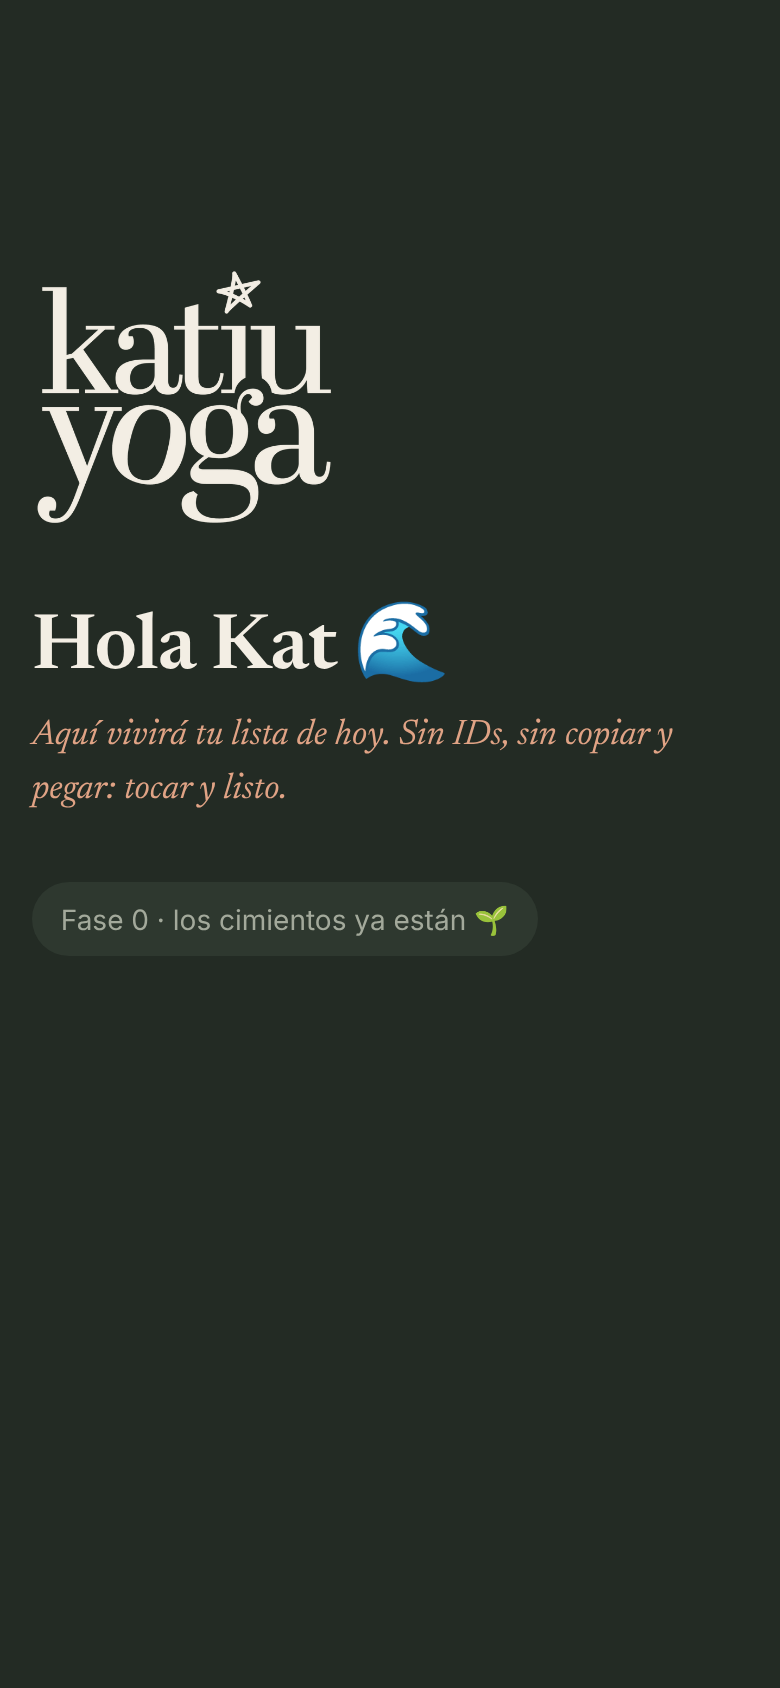
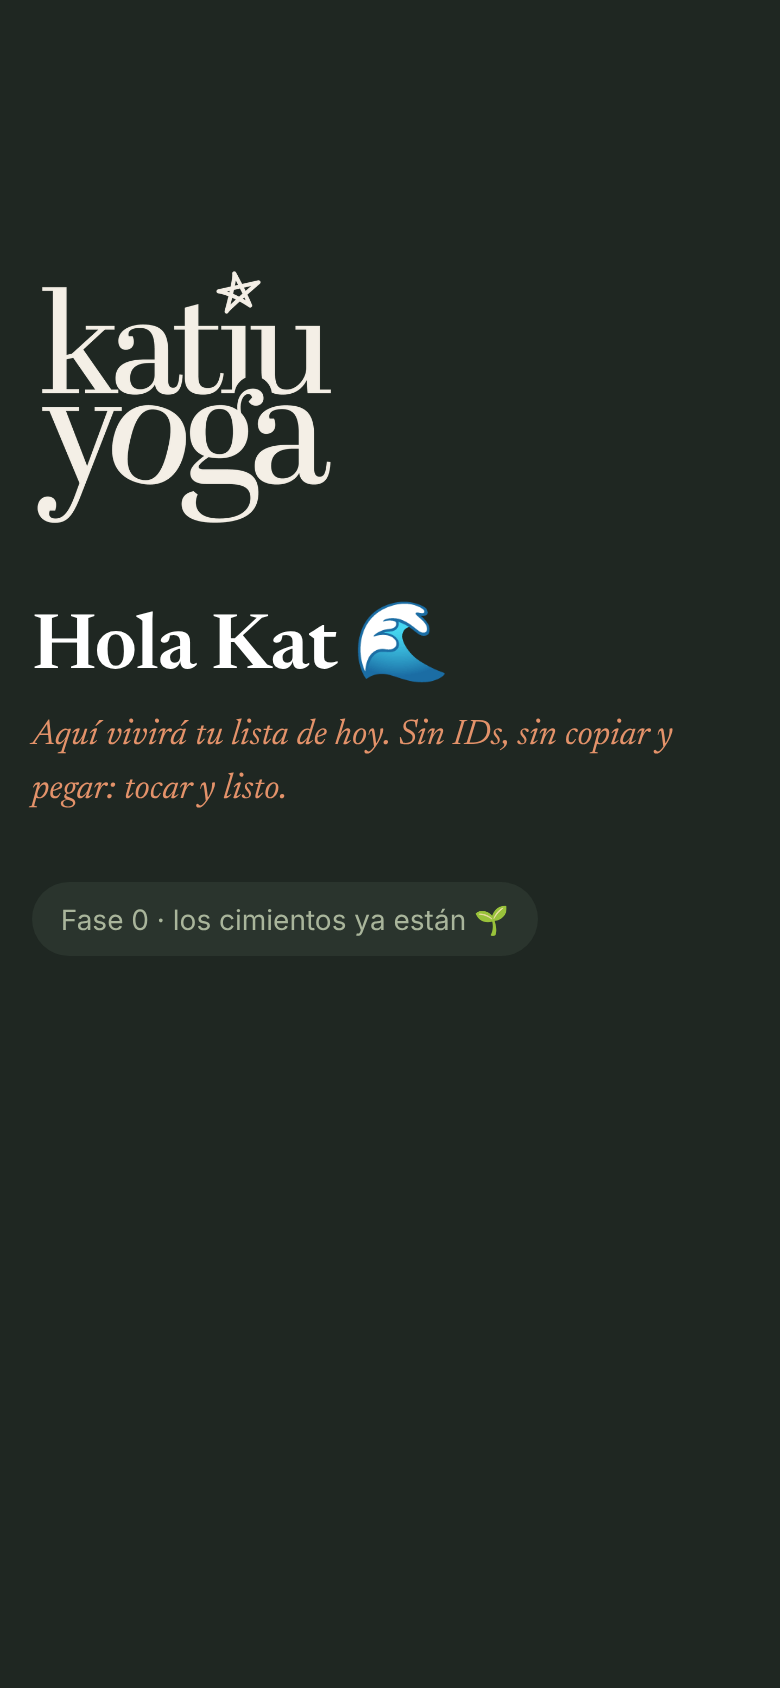
feat(diseño): refresh de paleta "Bosque & Lino" con colores de estado y contraste AA
Claude-Session: https://claude.ai/code/session_01JJWnREDnQrXapA92JvzeH6

Changed region(s): [[0.0308, 0.3697, 0.2462, 0.4005], [0.2769, 0.3697, 0.4308, 0.4005]]

diff --git a/src/katiu/static/css/tokens.css b/src/katiu/static/css/tokens.css
@@ -1,29 +1,47 @@
-/* Tokens de marca Katiu Yoga (Pautas de diseño 2026).
-   Única fuente de color, tipografía y forma: los componentes usan var(--token), nunca un hex suelto.
-   Los hex se han muestreado del manual de marca (sus códigos impresos no coinciden con los
-   colores reales; ver docs/adr/0002-identidad-de-marca.md). */
+/* Tokens de marca Katiu Yoga: paleta "Bosque & Lino" (refresh 2026-11, ADR-0002).
+   Única fuente de color, tipografía y forma. Hay dos capas:
+   1) colores de marca (--bosque, --terracota...) y
+   2) roles semánticos (--text, --accent, --ok...), que es lo ÚNICO que usan los componentes.
+   Todos los pares texto/fondo cumplen WCAG AA (≥ 4.5:1); los ratios están anotados. */
 :root {
-  /* Paleta de marca */
-  --bosque: #3D4A3B;      /* primario A: texto fuerte, navegación, logo */
-  --lino: #F3EEE4;        /* primario B: fondo */
-  --papel: #FAF8F4;       /* tarjetas (como en la lista de precios) */
-  --terracota: #CC6633;   /* primario C: acentos grandes, estrella, iconos */
-  --terracota-tinta: #A8501F; /* terracota oscurecida para texto y botones (AA 4.7:1 sobre lino) */
-  --oliva: #667059;       /* primario D: éxito / asistió, texto secundario */
-  --arena: #C8B296;       /* primario E: bordes, separadores, pendiente */
+  /* --- Marca --- */
+  --bosque: #34433A;          /* texto y navegación · 9.1:1 sobre lino */
+  --bosque-profundo: #26322B; /* titulares, barra inferior */
+  --lino: #F4EFE6;            /* fondo */
+  --papel: #FBF9F5;           /* tarjetas */
+  --terracota: #C8602E;       /* estrella, iconos, acentos grandes (no texto pequeño) */
+  --terracota-tinta: #A2461C; /* botón primario y enlaces · 5.4:1 */
+  --salvia: #5D6A50;          /* texto secundario, "asistió" · 5.0:1 */
+  --arena: #CDB896;           /* bordes y separadores (decorativo) */
+  --miel: #8A5F0C;            /* "pendiente de pago" · 4.9:1 */
+  --granada: #9E3B2E;         /* errores, deshacer · 5.9:1 */
 
-  /* Roles semánticos: la interfaz usa estos, no los de arriba */
+  /* Tintes para fondos de estado (texto bosque encima ≥ 7.6:1) */
+  --salvia-tinte: #E3E8DB;
+  --miel-tinte: #F6E4BC;
+  --terracota-tinte: #F5DCCD;
+  --granada-tinte: #F3D6D0;
+
+  /* --- Roles semánticos --- */
   --bg: var(--lino);
   --surface: var(--papel);
   --text: var(--bosque);
-  --text-muted: var(--oliva);
+  --text-strong: var(--bosque-profundo);
+  --text-muted: var(--salvia);
   --accent: var(--terracota);
   --accent-ink: var(--terracota-tinta);
+  --on-accent: var(--lino);
   --line: var(--arena);
+  --ok: var(--salvia);
+  --ok-bg: var(--salvia-tinte);
+  --warn: var(--miel);
+  --warn-bg: var(--miel-tinte);
+  --danger: var(--granada);
+  --danger-bg: var(--granada-tinte);
   --logo: var(--bosque);
 
   /* Tipografía: la marca usa Abril Text (de pago). Newsreader es el sustituto libre más cercano;
-     si Kat tiene licencia web de Abril Text, basta cambiar --font-display. */
+     con licencia web de Abril Text basta cambiar --font-display. */
   --font-display: "Newsreader", "Abril Text", Georgia, serif;
   --font-body: "Inter", system-ui, sans-serif;
 
@@ -34,16 +52,24 @@
   --space: 1rem;
 }
 
-/* Modo oscuro "bosque de noche" */
+/* Modo oscuro "bosque de noche" (todos los textos ≥ 5:1 sobre fondo y superficie) */
 @media (prefers-color-scheme: dark) {
   :root {
-    --bg: #232B24;
-    --surface: #2E382F;
+    --bg: #1F2722;
+    --surface: #2A342D;
     --text: var(--lino);
-    --text-muted: #A3A99B;
-    --accent: #D6855C;
-    --accent-ink: #E0A385;
-    --line: #4A564A;
+    --text-strong: #FFFFFF;
+    --text-muted: #A9B59B;
+    --accent: #E3926A;
+    --accent-ink: #E3926A;
+    --on-accent: #1F2722;
+    --line: #4B5747;
+    --ok: #A9B59B;
+    --ok-bg: #34413A;
+    --warn: #E7BE6A;
+    --warn-bg: #3D3825;
+    --danger: #E8897A;
+    --danger-bg: #43302C;
     --logo: var(--lino);
   }
 }

diff --git a/src/katiu/templates/base.html b/src/katiu/templates/base.html
@@ -3,8 +3,8 @@
 <head>
   <meta charset="utf-8">
   <meta name="viewport" content="width=device-width, initial-scale=1, viewport-fit=cover">
-  <meta name="theme-color" content="#F3EEE4" media="(prefers-color-scheme: light)">
-  <meta name="theme-color" content="#232B24" media="(prefers-color-scheme: dark)">
+  <meta name="theme-color" content="#F4EFE6" media="(prefers-color-scheme: light)">
+  <meta name="theme-color" content="#1F2722" media="(prefers-color-scheme: dark)">
   <title>{% block title %}Katiu Yoga{% endblock %}</title>
   <link rel="preconnect" href="https://fonts.googleapis.com">
   <link rel="preconnect" href="https://fonts.gstatic.com" crossorigin>

diff --git a/src/katiu/static/css/base.css b/src/katiu/static/css/base.css
@@ -30,6 +30,7 @@ body {
 }
 
 h1 {
+  color: var(--text-strong);
   margin: 2.5rem 0 .5rem;
   font: 600 clamp(2.25rem, 10vw, 3.25rem)/1.1 var(--font-display);
   letter-spacing: -.01em;

diff --git a/docs/adr/0002-identidad-de-marca.md b/docs/adr/0002-identidad-de-marca.md
@@ -14,9 +14,23 @@ herramienta interna, pero Kat la abrirá a diario y debe sentirse suya.
   Bosque `#3D4A3B`, Lino `#F3EEE4`, Terracota `#CC6633`, Oliva `#667059` y Arena `#C8B296`.
   Los códigos que trae impresos el manual (`66cc33`, `111111`, `6633ff`...) son de una
   plantilla y no coinciden con las muestras que se ven, así que se toman las muestras.
-- **Terracota de texto** `#A8501F`: la terracota oficial sobre lino da 3,3:1 y no pasa el nivel AA
-  para texto normal. Se reserva para acentos grandes (la estrella, iconos) y se usa una versión
-  oscurecida para el texto y los botones (4,7:1).
+- **Refresh "Bosque & Lino"** (aprobado por Lalo el 2026-11-11): se parte de la paleta oficial y
+  se ajusta para la interfaz. Todos los textos cumplen AA:
+
+  | Token | Hex | Uso | Contraste sobre lino |
+  |---|---|---|---|
+  | Bosque | `#34433A` | texto, navegación, logo | 9,1:1 |
+  | Bosque profundo | `#26322B` | titulares | 11,7:1 |
+  | Lino / Papel | `#F4EFE6` / `#FBF9F5` | fondo / tarjetas | n/a |
+  | Terracota | `#C8602E` | estrella, iconos y acentos grandes | 3,6:1 (no se usa para texto) |
+  | Terracota tinta | `#A2461C` | botón primario, enlaces | 5,4:1 |
+  | Salvia | `#5D6A50` | texto secundario, "asistió" | 5,0:1 |
+  | Arena | `#CDB896` | bordes (decorativo) | n/a |
+  | Miel *(nuevo)* | `#8A5F0C` | pendiente de pago | 4,9:1 |
+  | Granada *(nuevo)* | `#9E3B2E` | errores, deshacer | 5,9:1 |
+
+  La marca no traía colores de estado (pendiente, error), así que se añaden Miel y Granada, de
+  la misma familia terrosa. Cada estado tiene además un tinte claro de fondo.
 - **Tipografía:** la marca usa *Abril Text* (TypeTogether, de pago). En la web usamos
   **Newsreader** (Google Fonts, libre), la serif disponible más parecida, e **Inter** para la
   interfaz. Si Kat tiene licencia web de Abril Text, el cambio es una sola línea en
@@ -30,5 +44,6 @@ herramienta interna, pero Kat la abrirá a diario y debe sentirse suya.
 ## Consecuencias
 - ✅ La app y el material de Kat (Instagram, lista de precios) hablan el mismo idioma.
 - ✅ Contraste AA garantizado por tokens, no por fuerza de voluntad.
+- ✅ Hay dos capas de tokens (marca → roles). El modo oscuro solo reasigna roles.
 - ⚠ El logo es un raster de 560 px. Conviene pedir el SVG original.
 - ⚠ Newsreader es una aproximación a Abril Text, no la tipografía oficial.
